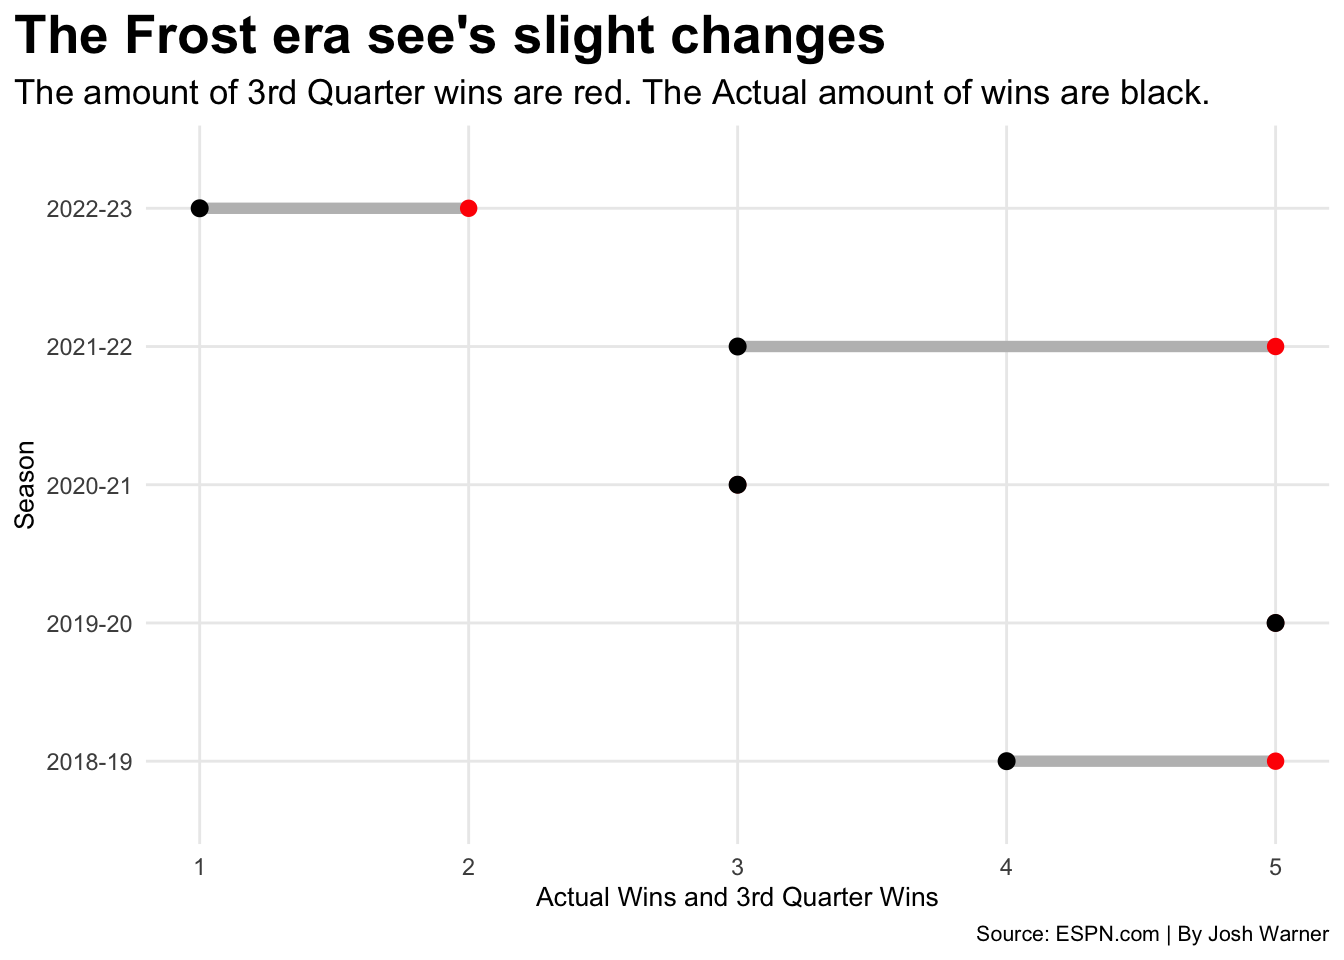
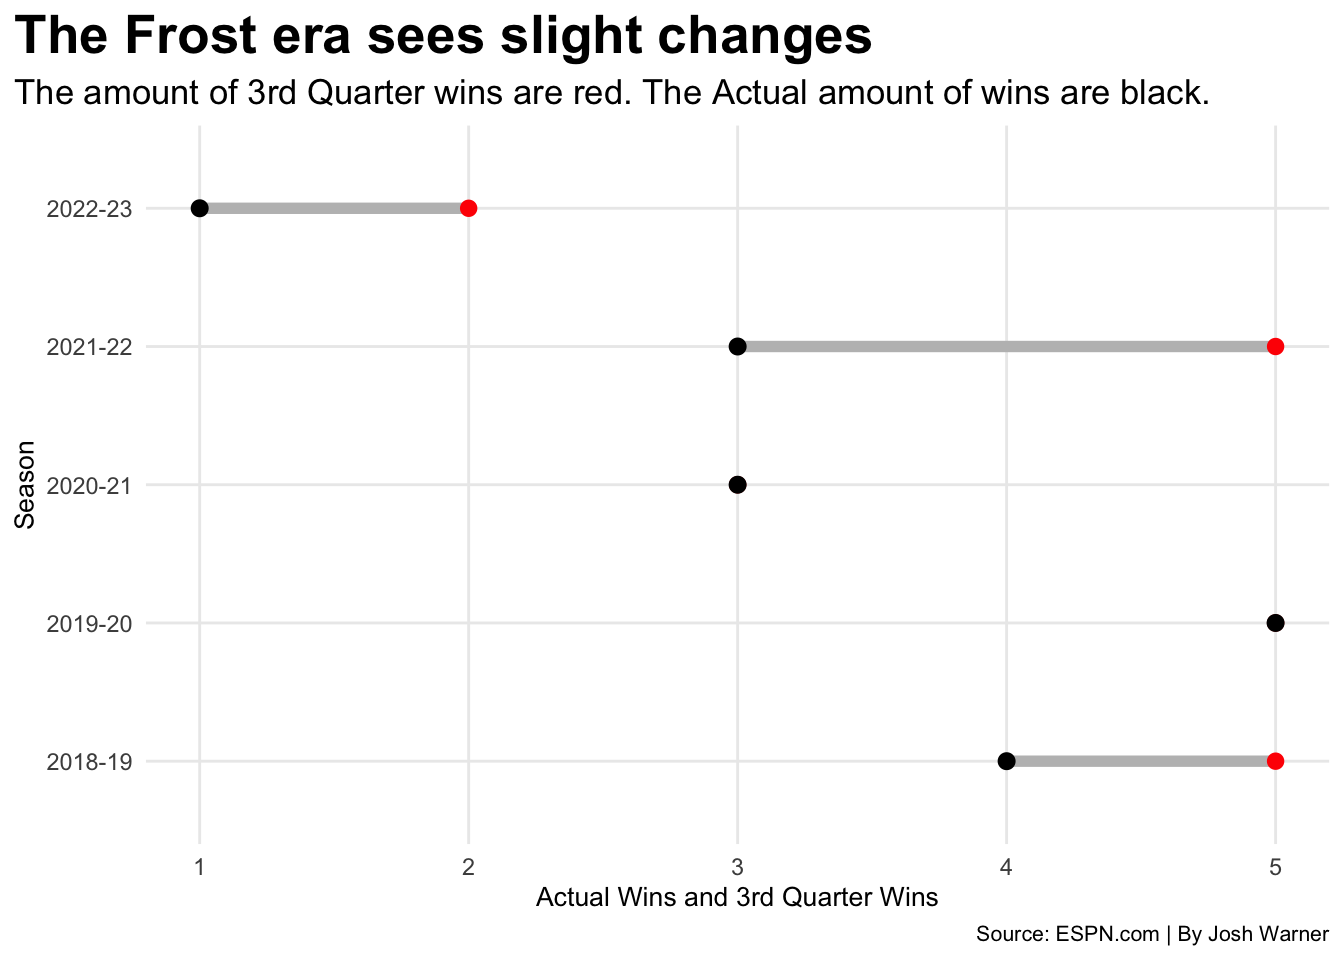
commit files
commit files

Changed region(s): [[0.3438, 0.0, 0.6562, 0.0625]]

diff --git a/posts/scott-frost-third-qtr/index.html b/posts/scott-frost-third-qtr/index.html
@@ -248,7 +248,7 @@ pre > code.sourceCode > span > a:first-child::before { text-decoration: underlin
 <span id="cb1-47"><a href="#cb1-47" aria-hidden="true" tabindex="-1"></a>   <span class="fu">labs</span>(</span>
 <span id="cb1-48"><a href="#cb1-48" aria-hidden="true" tabindex="-1"></a>     <span class="at">x=</span><span class="st">"Actual Wins and 3rd Quarter Wins"</span>, </span>
 <span id="cb1-49"><a href="#cb1-49" aria-hidden="true" tabindex="-1"></a>    <span class="at">y=</span><span class="st">"Season"</span>, </span>
-<span id="cb1-50"><a href="#cb1-50" aria-hidden="true" tabindex="-1"></a>    <span class="at">title=</span><span class="st">"The Frost era see's slight changes"</span>, </span>
+<span id="cb1-50"><a href="#cb1-50" aria-hidden="true" tabindex="-1"></a>    <span class="at">title=</span><span class="st">"The Frost era sees slight changes"</span>, </span>
 <span id="cb1-51"><a href="#cb1-51" aria-hidden="true" tabindex="-1"></a>    <span class="at">subtitle =</span> <span class="st">"The amount of 3rd Quarter wins are red. The Actual amount of wins are black."</span>,</span>
 <span id="cb1-52"><a href="#cb1-52" aria-hidden="true" tabindex="-1"></a><span class="at">caption=</span><span class="st">"Source: ESPN.com | By Josh Warner"</span></span>
 <span id="cb1-53"><a href="#cb1-53" aria-hidden="true" tabindex="-1"></a>    )  <span class="sc">+</span> </span>
@@ -359,23 +359,23 @@ pre > code.sourceCode > span > a:first-child::before { text-decoration: underlin
 </details>
 <div class="cell-output-display">
 <div>
-<div id="agtuejnluz" style="padding-left:0px;padding-right:0px;padding-top:10px;padding-bottom:10px;overflow-x:auto;overflow-y:auto;width:auto;height:auto;">
-<style>#agtuejnluz table {
+<div id="vqjcwamtpa" style="padding-left:0px;padding-right:0px;padding-top:10px;padding-bottom:10px;overflow-x:auto;overflow-y:auto;width:auto;height:auto;">
+<style>#vqjcwamtpa table {
   font-family: system-ui, 'Segoe UI', Roboto, Helvetica, Arial, sans-serif, 'Apple Color Emoji', 'Segoe UI Emoji', 'Segoe UI Symbol', 'Noto Color Emoji';
   -webkit-font-smoothing: antialiased;
   -moz-osx-font-smoothing: grayscale;
 }
 
-#agtuejnluz thead, #agtuejnluz tbody, #agtuejnluz tfoot, #agtuejnluz tr, #agtuejnluz td, #agtuejnluz th {
+#vqjcwamtpa thead, #vqjcwamtpa tbody, #vqjcwamtpa tfoot, #vqjcwamtpa tr, #vqjcwamtpa td, #vqjcwamtpa th {
   border-style: none;
 }
 
-#agtuejnluz p {
+#vqjcwamtpa p {
   margin: 0;
   padding: 0;
 }
 
-#agtuejnluz .gt_table {
+#vqjcwamtpa .gt_table {
   display: table;
   border-collapse: collapse;
   line-height: normal;
@@ -401,12 +401,12 @@ pre > code.sourceCode > span > a:first-child::before { text-decoration: underlin
   border-left-color: #D3D3D3;
 }
 
-#agtuejnluz .gt_caption {
+#vqjcwamtpa .gt_caption {
   padding-top: 4px;
   padding-bottom: 4px;
 }
 
-#agtuejnluz .gt_title {
+#vqjcwamtpa .gt_title {
   color: #333333;
   font-size: 125%;
   font-weight: initial;
@@ -418,7 +418,7 @@ pre > code.sourceCode > span > a:first-child::before { text-decoration: underlin
   border-bottom-width: 0;
 }
 
-#agtuejnluz .gt_subtitle {
+#vqjcwamtpa .gt_subtitle {
   color: #333333;
   font-size: 85%;
   font-weight: initial;
@@ -430,7 +430,7 @@ pre > code.sourceCode > span > a:first-child::before { text-decoration: underlin
   border-top-width: 0;
 }
 
-#agtuejnluz .gt_heading {
+#vqjcwamtpa .gt_heading {
   background-color: #FFFFFF;
   text-align: center;
   border-bottom-color: #FFFFFF;
@@ -442,13 +442,13 @@ pre > code.sourceCode > span > a:first-child::before { text-decoration: underlin
   border-right-color: #D3D3D3;
 }
 
-#agtuejnluz .gt_bottom_border {
+#vqjcwamtpa .gt_bottom_border {
   border-bottom-style: none;
   border-bottom-width: 2px;
   border-bottom-color: #D3D3D3;
 }
 
-#agtuejnluz .gt_col_headings {
+#vqjcwamtpa .gt_col_headings {
   border-top-style: none;
   border-top-width: 2px;
   border-top-color: #D3D3D3;
@@ -463,7 +463,7 @@ pre > code.sourceCode > span > a:first-child::before { text-decoration: underlin
   border-right-color: #D3D3D3;
 }
 
-#agtuejnluz .gt_col_heading {
+#vqjcwamtpa .gt_col_heading {
   color: #333333;
   background-color: #FFFFFF;
   font-size: 100%;
@@ -483,7 +483,7 @@ pre > code.sourceCode > span > a:first-child::before { text-decoration: underlin
   overflow-x: hidden;
 }
 
-#agtuejnluz .gt_column_spanner_outer {
+#vqjcwamtpa .gt_column_spanner_outer {
   color: #333333;
   background-color: #FFFFFF;
   font-size: 100%;
@@ -495,15 +495,15 @@ pre > code.sourceCode > span > a:first-child::before { text-decoration: underlin
   padding-right: 4px;
 }
 
-#agtuejnluz .gt_column_spanner_outer:first-child {
+#vqjcwamtpa .gt_column_spanner_outer:first-child {
   padding-left: 0;
 }
 
-#agtuejnluz .gt_column_spanner_outer:last-child {
+#vqjcwamtpa .gt_column_spanner_outer:last-child {
   padding-right: 0;
 }
 
-#agtuejnluz .gt_column_spanner {
+#vqjcwamtpa .gt_column_spanner {
   border-bottom-style: none;
   border-bottom-width: 2px;
   border-bottom-color: #D3D3D3;
@@ -515,11 +515,11 @@ pre > code.sourceCode > span > a:first-child::before { text-decoration: underlin
   width: 100%;
 }
 
-#agtuejnluz .gt_spanner_row {
+#vqjcwamtpa .gt_spanner_row {
   border-bottom-style: hidden;
 }
 
-#agtuejnluz .gt_group_heading {
+#vqjcwamtpa .gt_group_heading {
   padding-top: 8px;
   padding-bottom: 8px;
   padding-left: 5px;
@@ -545,7 +545,7 @@ pre > code.sourceCode > span > a:first-child::before { text-decoration: underlin
   text-align: left;
 }
 
-#agtuejnluz .gt_empty_group_heading {
+#vqjcwamtpa .gt_empty_group_heading {
   padding: 0.5px;
   color: #333333;
   background-color: #FFFFFF;
@@ -560,15 +560,15 @@ pre > code.sourceCode > span > a:first-child::before { text-decoration: underlin
   vertical-align: middle;
 }
 
-#agtuejnluz .gt_from_md > :first-child {
+#vqjcwamtpa .gt_from_md > :first-child {
   margin-top: 0;
 }
 
-#agtuejnluz .gt_from_md > :last-child {
+#vqjcwamtpa .gt_from_md > :last-child {
   margin-bottom: 0;
 }
 
-#agtuejnluz .gt_row {
+#vqjcwamtpa .gt_row {
   padding-top: 8px;
   padding-bottom: 8px;
   padding-left: 5px;
@@ -587,7 +587,7 @@ pre > code.sourceCode > span > a:first-child::before { text-decoration: underlin
   overflow-x: hidden;
 }
 
-#agtuejnluz .gt_stub {
+#vqjcwamtpa .gt_stub {
   color: #333333;
   background-color: #FFFFFF;
   font-size: 100%;
@@ -600,7 +600,7 @@ pre > code.sourceCode > span > a:first-child::before { text-decoration: underlin
   padding-right: 5px;
 }
 
-#agtuejnluz .gt_stub_row_group {
+#vqjcwamtpa .gt_stub_row_group {
   color: #333333;
   background-color: #FFFFFF;
   font-size: 100%;
@@ -614,15 +614,15 @@ pre > code.sourceCode > span > a:first-child::before { text-decoration: underlin
   vertical-align: top;
 }
 
-#agtuejnluz .gt_row_group_first td {
+#vqjcwamtpa .gt_row_group_first td {
   border-top-width: 2px;
 }
 
-#agtuejnluz .gt_row_group_first th {
+#vqjcwamtpa .gt_row_group_first th {
   border-top-width: 2px;
 }
 
-#agtuejnluz .gt_summary_row {
+#vqjcwamtpa .gt_summary_row {
   color: #333333;
   background-color: #FFFFFF;
   text-transform: inherit;
@@ -632,16 +632,16 @@ pre > code.sourceCode > span > a:first-child::before { text-decoration: underlin
   padding-right: 5px;
 }
 
-#agtuejnluz .gt_first_summary_row {
+#vqjcwamtpa .gt_first_summary_row {
   border-top-style: none;
   border-top-color: #D3D3D3;
 }
 
-#agtuejnluz .gt_first_summary_row.thick {
+#vqjcwamtpa .gt_first_summary_row.thick {
   border-top-width: 2px;
 }
 
-#agtuejnluz .gt_last_summary_row {
+#vqjcwamtpa .gt_last_summary_row {
   padding-top: 8px;
   padding-bottom: 8px;
   padding-left: 5px;
@@ -651,7 +651,7 @@ pre > code.sourceCode > span > a:first-child::before { text-decoration: underlin
   border-bottom-color: #D3D3D3;
 }
 
-#agtuejnluz .gt_grand_summary_row {
+#vqjcwamtpa .gt_grand_summary_row {
   color: #333333;
   background-color: #FFFFFF;
   text-transform: inherit;
@@ -661,7 +661,7 @@ pre > code.sourceCode > span > a:first-child::before { text-decoration: underlin
   padding-right: 5px;
 }
 
-#agtuejnluz .gt_first_grand_summary_row {
+#vqjcwamtpa .gt_first_grand_summary_row {
   padding-top: 8px;
   padding-bottom: 8px;
   padding-left: 5px;
@@ -671,7 +671,7 @@ pre > code.sourceCode > span > a:first-child::before { text-decoration: underlin
   border-top-color: #D3D3D3;
 }
 
-#agtuejnluz .gt_last_grand_summary_row_top {
+#vqjcwamtpa .gt_last_grand_summary_row_top {
   padding-top: 8px;
   padding-bottom: 8px;
   padding-left: 5px;
@@ -681,11 +681,11 @@ pre > code.sourceCode > span > a:first-child::before { text-decoration: underlin
   border-bottom-color: #D3D3D3;
 }
 
-#agtuejnluz .gt_striped {
+#vqjcwamtpa .gt_striped {
   background-color: rgba(128, 128, 128, 0.05);
 }
 
-#agtuejnluz .gt_table_body {
+#vqjcwamtpa .gt_table_body {
   border-top-style: none;
   border-top-width: 2px;
   border-top-color: #D3D3D3;
@@ -694,7 +694,7 @@ pre > code.sourceCode > span > a:first-child::before { text-decoration: underlin
   border-bottom-color: #D3D3D3;
 }
 
-#agtuejnluz .gt_footnotes {
+#vqjcwamtpa .gt_footnotes {
   color: #333333;
   background-color: #FFFFFF;
   border-bottom-style: none;
@@ -708,7 +708,7 @@ pre > code.sourceCode > span > a:first-child::before { text-decoration: underlin
   border-right-color: #D3D3D3;
 }
 
-#agtuejnluz .gt_footnote {
+#vqjcwamtpa .gt_footnote {
   margin: 0px;
   font-size: 90%;
   padding-top: 4px;
@@ -717,7 +717,7 @@ pre > code.sourceCode > span > a:first-child::before { text-decoration: underlin
   padding-right: 5px;
 }
 
-#agtuejnluz .gt_sourcenotes {
+#vqjcwamtpa .gt_sourcenotes {
   color: #333333;
   background-color: #FFFFFF;
   border-bottom-style: none;
@@ -731,7 +731,7 @@ pre > code.sourceCode > span > a:first-child::before { text-decoration: underlin
   border-right-color: #D3D3D3;
 }
 
-#agtuejnluz .gt_sourcenote {
+#vqjcwamtpa .gt_sourcenote {
   font-size: 90%;
   padding-top: 4px;
   padding-bottom: 4px;
@@ -739,63 +739,63 @@ pre > code.sourceCode > span > a:first-child::before { text-decoration: underlin
   padding-right: 5px;
 }
 
-#agtuejnluz .gt_left {
+#vqjcwamtpa .gt_left {
   text-align: left;
 }
 
-#agtuejnluz .gt_center {
+#vqjcwamtpa .gt_center {
   text-align: center;
 }
 
-#agtuejnluz .gt_right {
+#vqjcwamtpa .gt_right {
   text-align: right;
   font-variant-numeric: tabular-nums;
 }
 
-#agtuejnluz .gt_font_normal {
+#vqjcwamtpa .gt_font_normal {
   font-weight: normal;
 }
 
-#agtuejnluz .gt_font_bold {
+#vqjcwamtpa .gt_font_bold {
   font-weight: bold;
 }
 
-#agtuejnluz .gt_font_italic {
+#vqjcwamtpa .gt_font_italic {
   font-style: italic;
 }
 
-#agtuejnluz .gt_super {
+#vqjcwamtpa .gt_super {
   font-size: 65%;
 }
 
-#agtuejnluz .gt_footnote_marks {
+#vqjcwamtpa .gt_footnote_marks {
   font-size: 75%;
   vertical-align: 0.4em;
   position: initial;
 }
 
-#agtuejnluz .gt_asterisk {
+#vqjcwamtpa .gt_asterisk {
   font-size: 100%;
   vertical-align: 0;
 }
 
-#agtuejnluz .gt_indent_1 {
+#vqjcwamtpa .gt_indent_1 {
   text-indent: 5px;
 }
 
-#agtuejnluz .gt_indent_2 {
+#vqjcwamtpa .gt_indent_2 {
   text-indent: 10px;
 }
 
-#agtuejnluz .gt_indent_3 {
+#vqjcwamtpa .gt_indent_3 {
   text-indent: 15px;
 }
 
-#agtuejnluz .gt_indent_4 {
+#vqjcwamtpa .gt_indent_4 {
   text-indent: 20px;
 }
 
-#agtuejnluz .gt_indent_5 {
+#vqjcwamtpa .gt_indent_5 {
   text-indent: 25px;
 }
 </style>

diff --git a/index.html b/index.html
@@ -208,7 +208,7 @@ window.Quarto = {
 
 <div class="quarto-listing quarto-listing-container-default" id="listing-listing">
 <div class="list quarto-listing-default">
-<div class="quarto-post image-right" data-index="0" data-categories="scott-frost,huskers,football" data-listing-date-sort="1714885200000" data-listing-file-modified-sort="1714925675094" data-listing-date-modified-sort="NaN" data-listing-reading-time-sort="7" data-listing-word-count-sort="1228">
+<div class="quarto-post image-right" data-index="0" data-categories="scott-frost,huskers,football" data-listing-date-sort="1714885200000" data-listing-file-modified-sort="1714925895152" data-listing-date-modified-sort="NaN" data-listing-reading-time-sort="7" data-listing-word-count-sort="1228">
 <div class="thumbnail">
 <p><a href="./posts/scott-frost-third-qtr/index.html" class="no-external"></a></p><a href="./posts/scott-frost-third-qtr/index.html" class="no-external">
 <p><img src="./posts/scott-frost-third-qtr/image2.png" class="thumbnail-image"></p>
